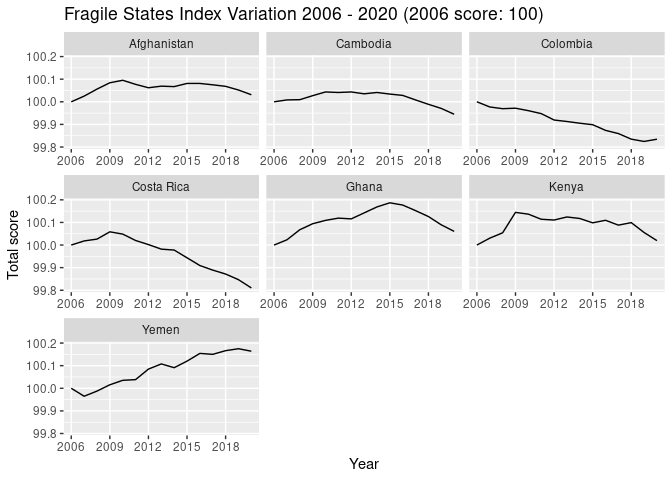
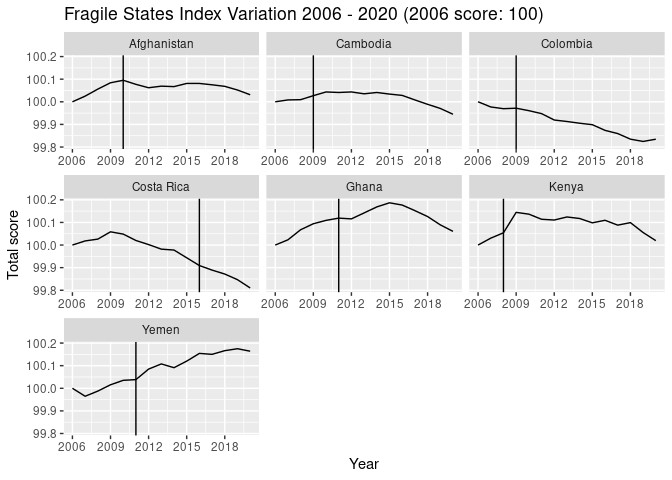
Added the line to represent the implementation year

diff --git a/research_report.md b/research_report.md
@@ -22,9 +22,16 @@ some positive and negative peace indicators (Fragile State Index and
 Global Peace Index), on seven countries that have developed
 government-lead, national peace infrastructures.
 
-The countries are: *Afghanistan *Cambodia *Colombia *Costa Rica *Ghana
-*Kenya
-    \*Yemen
+The countries are:
+
+  - Afghanistan
+  - Cambodia
+  - Colombia
+  - Costa
+    Rica
+  - Ghana
+  - Kenya
+  - Yemen
 
 ![](research_report_files/figure-gfm/data%20viz%20fsi-1.png)<!-- -->
 
